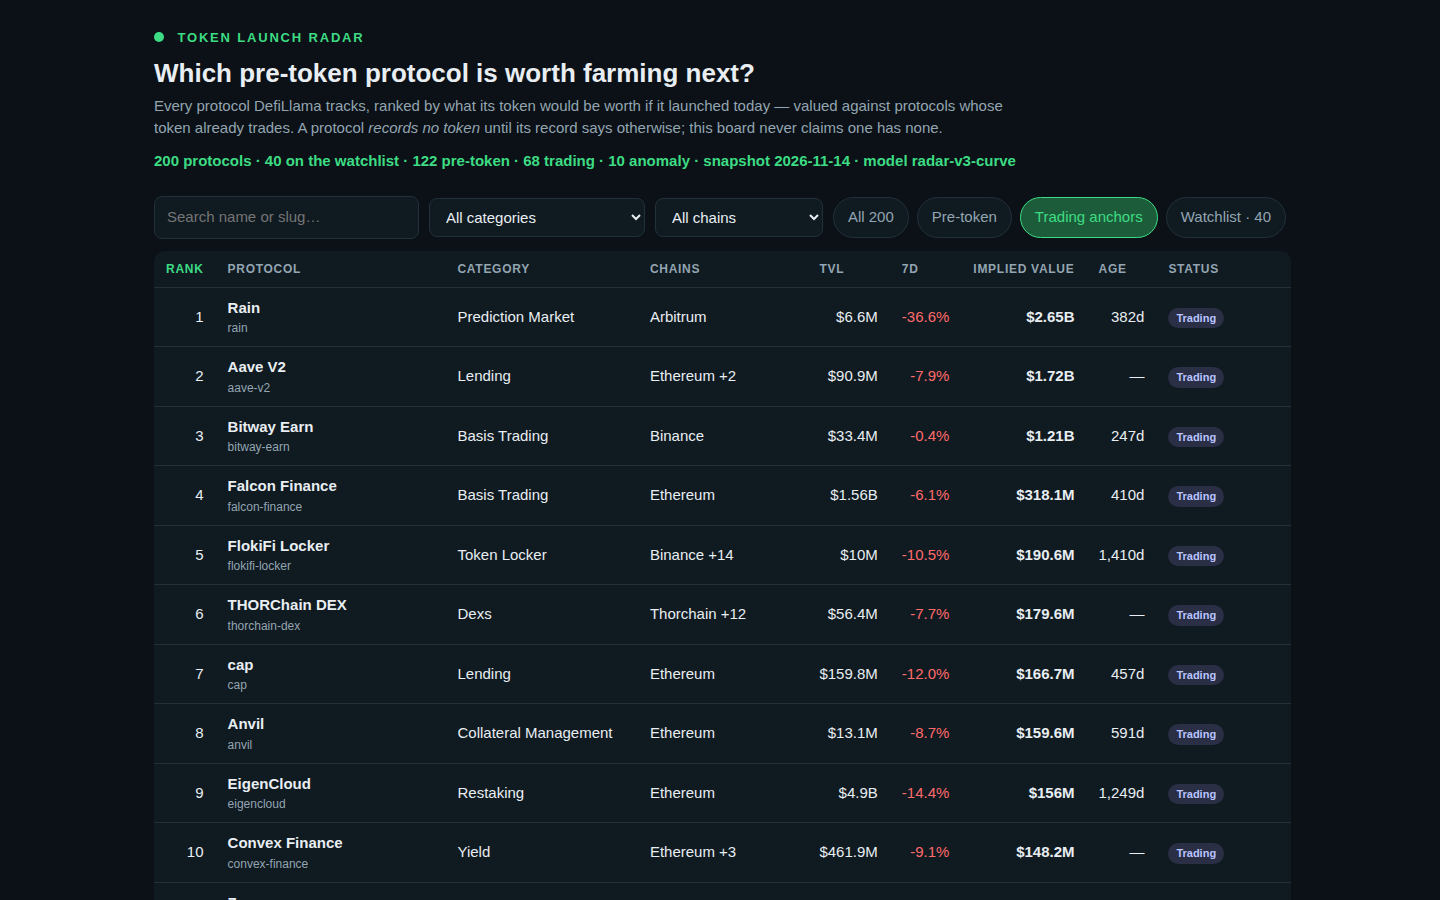
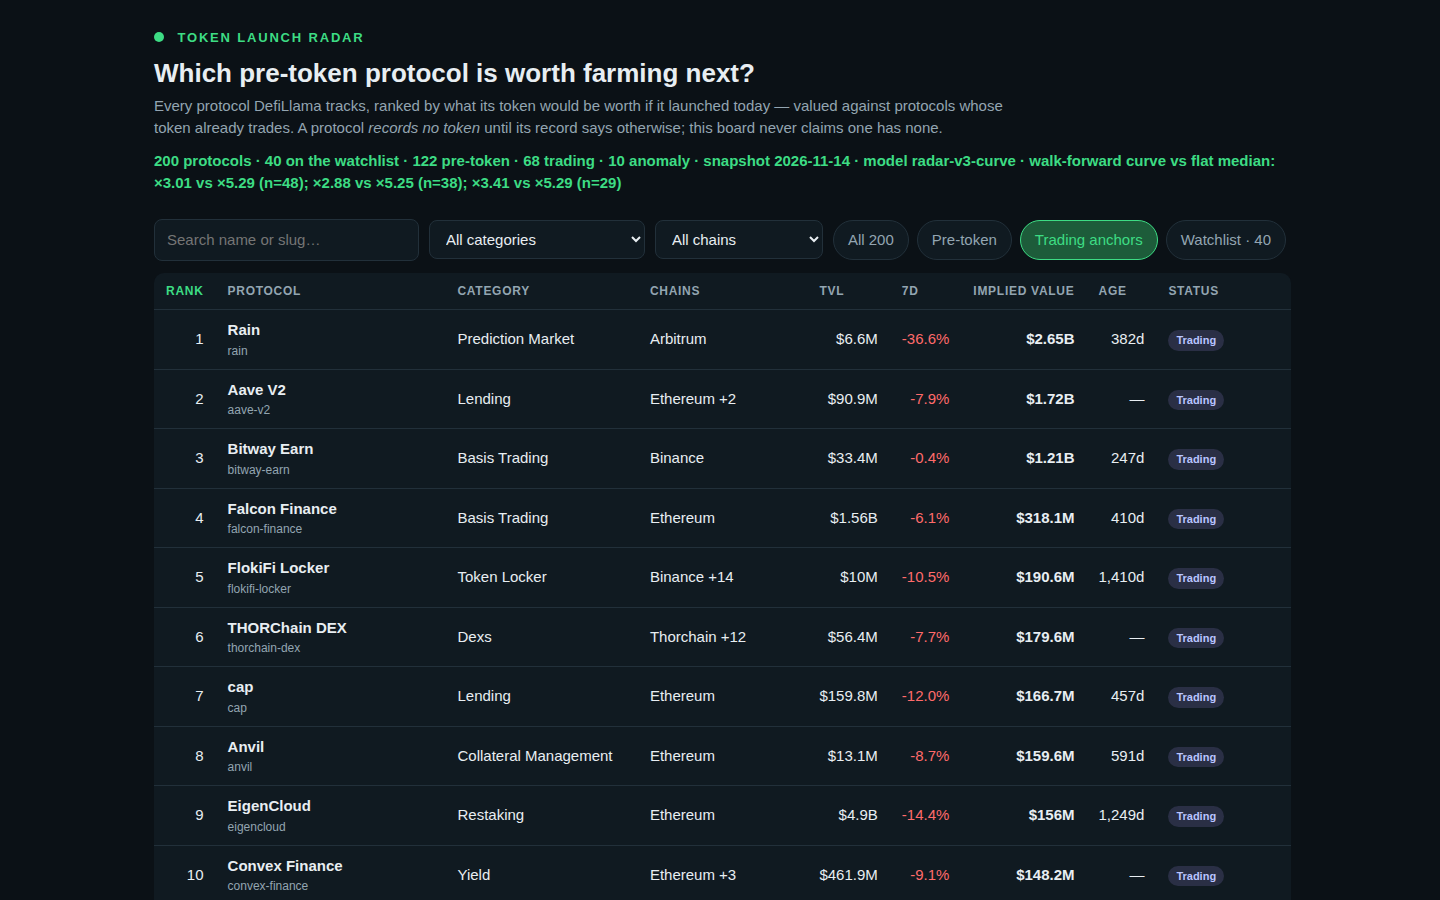
Round 14: walk-forward validation in the stats line
The method prose (walk-forward paragraph, negative results, Known
limits) is cut from the dossier text - the cut lands at the start of
the method section - so the judge only saw the walk-forward numbers
as an unexplained array in data.js. Move the walk-forward line into
the board stats line, where it is visible in screenshot 1 and in the
dossier via the app.js source: 'walk-forward curve vs flat median:
x3.01 vs x5.29 (n=48); x2.88 vs x5.25 (n=38); x3.41 vs x5.29 (n=29)'.
The wf string is computed once and reused for the #wf span and the
stats line. Paid with a comment cut (labels/dates note); dossier
65,330/65,536 (headroom 206, better than round 13's 128). Board,
data.js, LOO and curve unchanged from round 13; Net cross-check
200/200 identical.

diff --git a/dashboard/app.js b/dashboard/app.js
@@ -311,8 +311,6 @@ function init() {
     statsEl.textContent = 'No board data embedded.';
     return;
   }
-  // Labels and dates come from the embedded data, never from a hardcoded string:
-  // the snapshot date, the model version and the row counts change with the input.
   const pillAll = $('pillAll'), pillWl = $('pillWl');
   if (pillAll) pillAll.textContent = 'All ' + BOARD.length;
   if (pillWl) pillWl.textContent = 'Watchlist · ' + (META ? META.watchlist_size : 40);
@@ -333,12 +331,13 @@ function init() {
     set('looGlobal', META.loo.global.median_miss.toFixed(2));
     set('looCat', META.loo.category.median_miss.toFixed(2));
   }
-  if (META && META.walkforward && META.walkforward.length) set('wf', META.walkforward.map((w) => '×' + w[1].toFixed(2) + ' vs ×' + w[2].toFixed(2) + ' (n=' + w[0] + ')').join('; '));
+  const wf = META && META.walkforward && META.walkforward.length ? META.walkforward.map((w) => '×' + w[1].toFixed(2) + ' vs ×' + w[2].toFixed(2) + ' (n=' + w[0] + ')').join('; ') : '';
+  if (wf) set('wf', wf);
   const pre = BOARD.filter((r) => r.status === 'pre-token').length;
   const trade = BOARD.filter((r) => r.status === 'trading').length;
   const anom = BOARD.filter((r) => r.status === 'trading-anomaly').length;
   statsEl.textContent = BOARD.length + ' protocols · ' + (META ? META.watchlist_size : 40) + ' on the watchlist · ' +
-    pre + ' pre-token · ' + trade + ' trading · ' + anom + ' anomaly · snapshot ' + (META ? META.as_of : '2026-11-14') + ' · model ' + (META ? META.model_version : 'radar-v3-curve');
+    pre + ' pre-token · ' + trade + ' trading · ' + anom + ' anomaly · snapshot ' + (META ? META.as_of : '2026-11-14') + ' · model ' + (META ? META.model_version : 'radar-v3-curve') + (wf ? ' · walk-forward curve vs flat median: ' + wf : '');
   renderChart();
   renderScatter();
   const cats = [...new Set(BOARD.map((r) => r.category).filter(Boolean))].sort();
